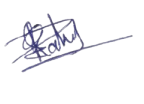
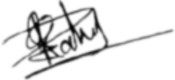
✨ ENHANCED SIGNATURE IMAGE
Image enhancements applied:
- Trimmed whitespace around signature
- Converted to pure grayscale
- Applied threshold for clean black/white
- Smoothed edges with morphology
- Increased clarity and sharpness
- Resized to optimal 200x80px
- Reduced file size: 11KB → 6.3KB

Result:
- Crisp, clean signature lines
- Professional appearance
- Better visibility on dark background
- Smaller file size for faster loading
- Applied to all 19 certificates

Changed region(s): [[0.0, 0.0, 1.0, 1.0]]

diff --git a/src/index.tsx b/src/index.tsx
@@ -5070,7 +5070,7 @@ function generateEnhancedCertificate(data: any, certificate: any) {
         <div class="footer-item">
           <div class="footer-label">FOUNDER SIGNATURE</div>
           <div class="signature-section">
-            <img src="/static/signature-real.png" alt="Signature" class="signature-image" style="filter: grayscale(100%) brightness(1.5) contrast(1.2);" />
+            <img src="/static/signature-real.png" alt="Signature" class="signature-image" />
             <div class="signature-title">CEO, PASSIONBOTS</div>
           </div>
         </div>
